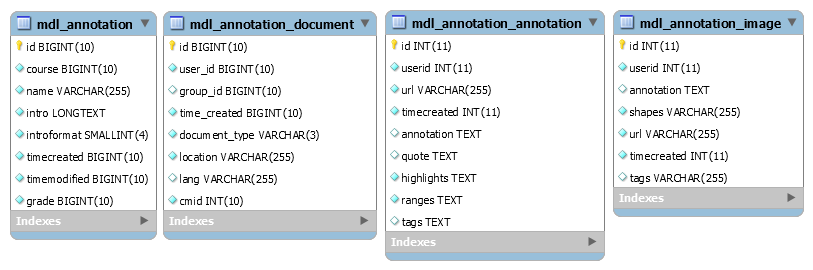
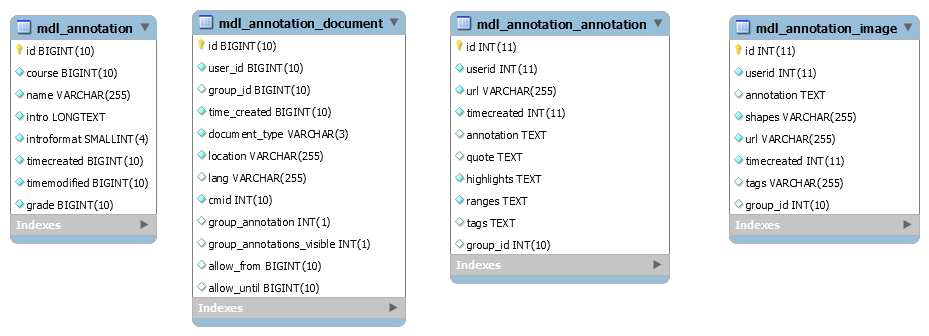
Began work on time restrictions

diff --git a/annotation/scripts/annotorious-storage.js b/annotation/scripts/annotorious-storage.js
@@ -51,7 +51,7 @@ require(['jquery'], function($) {
  * to the server in a POST request for it to process and save it.
  */
 anno.addHandler('onAnnotationCreated', function(annotation) {
-    delete annotation.src; //Waste of data so delete. Not required?
+    delete annotation.src; //Waste of data transfer so delete
     delete annotation.context; //Use annotation.url instead
     annotation.url = getQueryVariables("id"); //Used to associate annotation with file/doc
     annotation.tags = "";

diff --git a/annotation/lang/en/annotation.php b/annotation/lang/en/annotation.php
@@ -18,9 +18,6 @@
 /**
  * English strings for annotation
  *
- * You can have a rather longer description of the file as well,
- * if you like, and it can span multiple lines.
- *
  * @package    mod_annotation
  * @copyright  2015 Jamie McGowan
  * @license    http://www.gnu.org/copyleft/gpl.html GNU GPL v3 or later
@@ -46,7 +43,7 @@ $string['allow_annotations_until_help'] = 'If enabled, students will not be able
 $string['annotation_availability'] = 'Availability';
 $string['content'] = 'Content';
 $string['document_type'] = 'Document Type';
-$string['document_type_help'] = '';
+$string['document_type_help'] = 'Select the correct document type to ensure correct rendering.';
 $string['filemanager'] = '';
 $string['filemanager_help'] = 'Note: You can not change the selected file once you save the activity. Choose either a plain text file or an image.';
 $string['file_select_info'] = 'Please choose either a plain text file or an image and specify the correct document type';

diff --git a/annotation/locallib.php b/annotation/locallib.php
@@ -101,3 +101,19 @@ function update_annotation_document($data) {
     $sql = "UPDATE mdl_annotation_document SET document_type = ?, group_annotation = ?, group_annotations_visible = ?, allow_from = ?, allow_until = ? WHERE cmid = ? ";
     $DB->execute($sql, array($document_type, $group_annotation, $group_annotations_visible, $allow_from, $allow_until, $cmid));
 }
+
+/**
+ * Checks if the document is annotatable based of the 
+ * avaiability settings defined when creating the 
+ * activity. Returns true is the document can be annotated
+ * Returns false otherwise.
+ */
+function check_time_constraint($allow_from, $allow_until) {
+    $current_time = time();
+    if($current_time < $allow_from || $current_time > $allow_until) {
+        return false;
+    }
+    else {
+        return true;
+    }
+}

diff --git a/annotation/mod_form.php b/annotation/mod_form.php
@@ -71,6 +71,7 @@ class mod_annotation_mod_form extends moodleform_mod {
         $doctypes = array(0 => get_string('text_document', 'annotation'), 1 => get_string('source_code', 'annotation'), 2 => get_string('image', 'annotation'));
         $mform->addElement('select', 'type', get_String('document_type', 'annotation'), $doctypes);
         $mform->addRule('type', null, 'required', null, 'client');
+        $mform->addHelpButton('type', 'document_type', 'annotation');
 
         $filemanager_options = array();
         $filemanager_options['accepted_types'] = '*';

diff --git a/annotation/index.php b/annotation/index.php
@@ -15,10 +15,6 @@
 // along with Moodle.  If not, see <http://www.gnu.org/licenses/>.
 
 /**
- * This is a one-line short description of the file
- *
- * You can have a rather longer description of the file as well,
- * if you like, and it can span multiple lines.
  *
  * @package    mod_annotation
  * @copyright  2015 Jamie McGowan

diff --git a/annotation/view.php b/annotation/view.php
@@ -17,9 +17,6 @@
 /**
  * Prints a particular instance of annotation
  *
- * You can have a rather longer description of the file as well,
- * if you like, and it can span multiple lines.
- *
  * @package    mod_annotation
  * @copyright  2015 Jamie McGowan
  * @license    http://www.gnu.org/copyleft/gpl.html GNU GPL v3 or later
